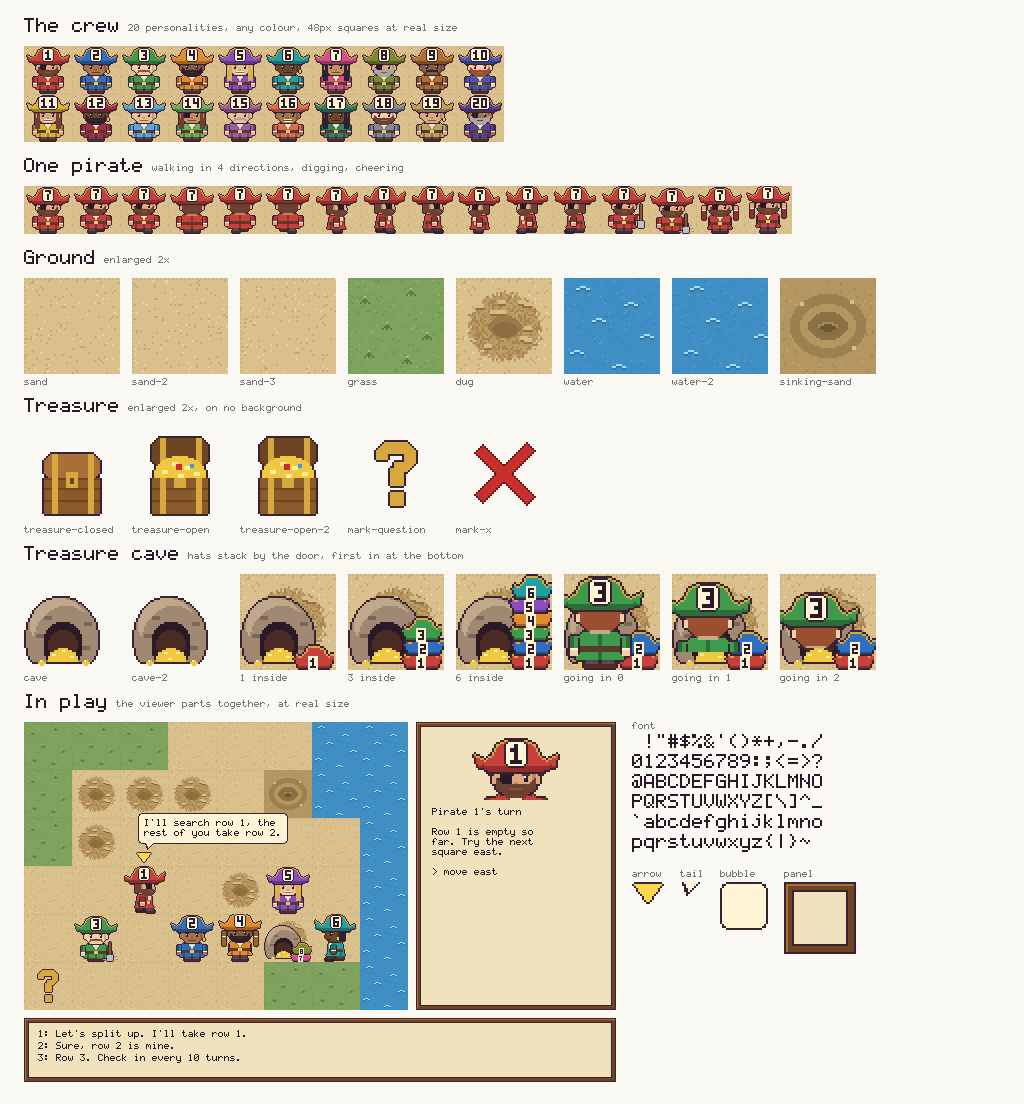
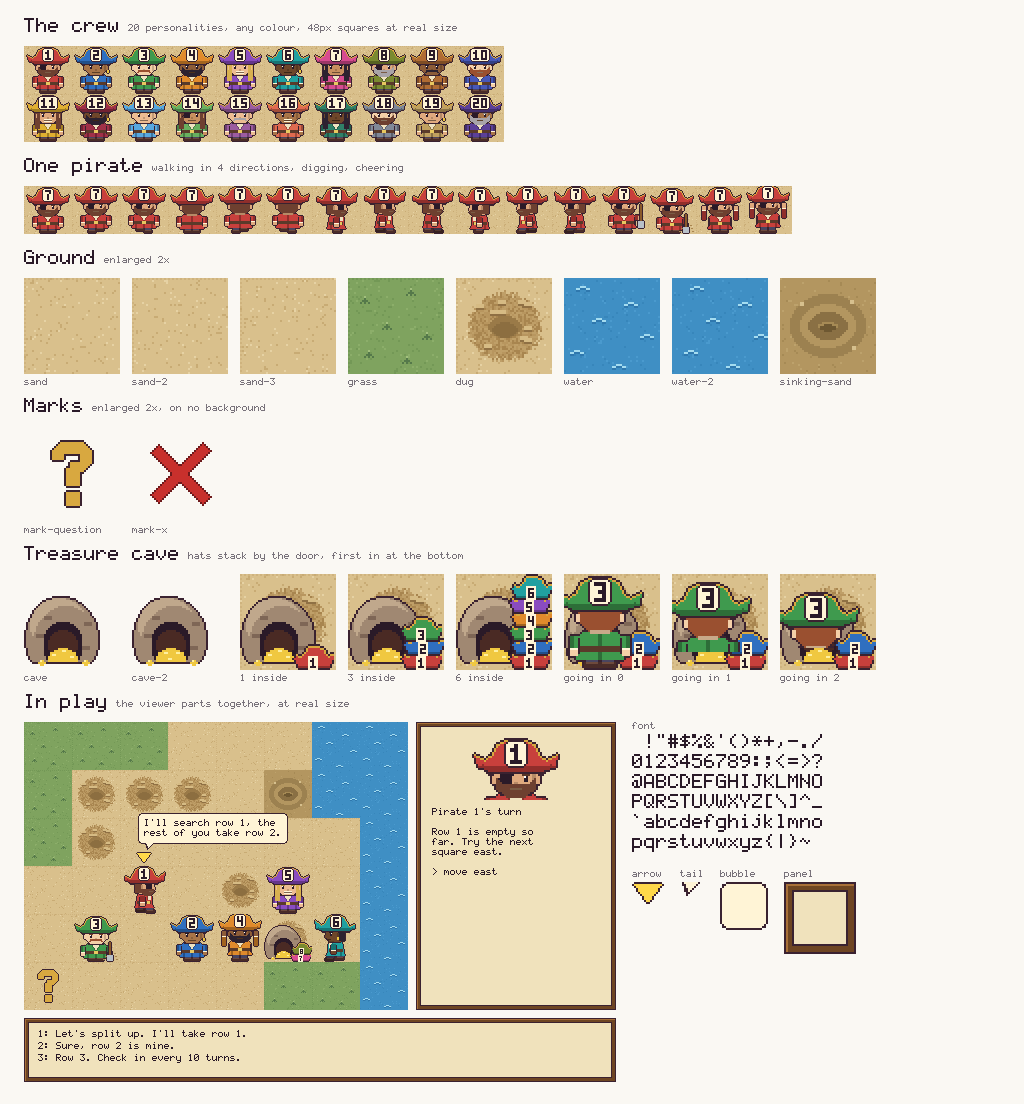
improve(assets): the treasure chests go, since the cave replaces them and nothing drew them
Al asked to keep only art that's used or likely to be. The closed and open
chests were never drawn by the viewer; the cave now stands for the treasure.
The marks stay, and the turn arrow stays for a whose-turn marker.

diff --git a/assets/treasure.py b/assets/treasure.py
@@ -1,60 +1,15 @@
 # Implements: assets/treasure-shown, assets/original-art
-"""The treasure and the marks on its square: 48x48 with a transparent background."""
+"""The marks on the treasure's square: 48x48 with a transparent background."""
 
 from PIL import Image, ImageDraw
 
-from assets.pixels import GOLD, SIZE, add_outline, rgba
+from assets.pixels import GOLD, SIZE, add_outline
 
-_WOOD, _WOOD_DARK, _WOOD_LIT = "#8a5a2b", "#6e4522", "#a87038"
-_COIN, _COIN_LIT = "#f0c840", "#fff0a0"
 _RED = "#c8302c"
 
 
 def _blank():
     return Image.new("RGBA", (SIZE, SIZE), (0, 0, 0, 0))
-
-
-def _chest_body(draw):
-    draw.rectangle([10, 26, 37, 43], fill=_WOOD)
-    for y in (31, 37):
-        draw.line([(10, y), (37, y)], fill=_WOOD_DARK)
-    for x in (14, 32):
-        draw.rectangle([x, 26, x + 2, 43], fill=GOLD)
-
-
-def closed():
-    image = _blank()
-    draw = ImageDraw.Draw(image)
-    _chest_body(draw)
-    draw.rounded_rectangle([10, 14, 37, 26], radius=5, fill=_WOOD_LIT)
-    draw.line([(10, 26), (37, 26)], fill=_WOOD_DARK)
-    for x in (14, 32):
-        draw.rectangle([x, 14, x + 2, 26], fill=GOLD)
-    draw.rectangle([21, 23, 26, 30], fill=GOLD)
-    draw.rectangle([23, 26, 24, 28], fill=_WOOD_DARK)
-    add_outline(image)
-    return image
-
-
-def opened(sparkle=False):
-    image = _blank()
-    draw = ImageDraw.Draw(image)
-    draw.rounded_rectangle([10, 6, 37, 20], radius=5, fill=_WOOD_DARK)
-    for x in (14, 32):
-        draw.rectangle([x, 6, x + 2, 20], fill=GOLD)
-    draw.ellipse([11, 15, 36, 32], fill=_COIN)
-    for x, y in [(15, 22), (20, 18), (26, 20), (31, 23), (23, 24), (17, 26), (29, 27)]:
-        draw.rectangle([x, y, x + 2, y + 1], fill=_COIN_LIT)
-    draw.rectangle([22, 19, 24, 21], fill=_RED)
-    draw.rectangle([29, 19, 30, 20], fill="#3f9ad0")
-    _chest_body(draw)
-    draw.rectangle([21, 26, 26, 30], fill=GOLD)
-    add_outline(image)
-    stars = [(7, 8), (40, 13), (24, 3)] if sparkle else [(41, 6), (6, 16), (33, 2)]
-    for x, y in stars:
-        for dx, dy in ((0, 0), (1, 0), (-1, 0), (0, 1), (0, -1)):
-            image.putpixel((x + dx, y + dy), rgba("#fffbe0"))
-    return image
 
 
 def mark_question():
@@ -81,9 +36,6 @@ def mark_x():
 
 
 ITEMS = {
-    "treasure-closed": closed,
-    "treasure-open": opened,
-    "treasure-open-2": lambda: opened(True),
     "mark-question": mark_question,
     "mark-x": mark_x,
 }

diff --git a/tests/test_assets.py b/tests/test_assets.py
@@ -120,10 +120,10 @@ def test_ground_tiles_are_opaque_and_look_different():
     assert len({tile.tobytes() for tile in drawn.values()}) == len(drawn)
 
 
-def test_treasure_shown_chests_and_marks_exist_and_differ():
-    needed = {"treasure-closed", "treasure-open", "mark-question", "mark-x"}
+def test_treasure_shown_marks_exist_and_differ():
+    needed = {"mark-question", "mark-x"}
     assert needed <= set(ITEMS)
-    assert len({ITEMS[name]().tobytes() for name in needed}) == 4
+    assert len({ITEMS[name]().tobytes() for name in needed}) == 2
     assert all(ITEMS[name]().getextrema()[3][0] == 0 for name in needed)
 
 

diff --git a/assets/generate.py b/assets/generate.py
@@ -188,7 +188,7 @@ def contact_sheet():
     sheet.alpha_composite(_on_sand(_poses(), 16), (24, 186))
     _heading(sheet, 250, "Ground", "enlarged 2x")
     _labelled_row(sheet, 278, [(name, make()) for name, make in TILES.items()])
-    _heading(sheet, 398, "Treasure", "enlarged 2x, on no background")
+    _heading(sheet, 398, "Marks", "enlarged 2x, on no background")
     _labelled_row(sheet, 426, [(name, make()) for name, make in ITEMS.items()])
     _heading(
         sheet, 546, "Treasure cave", "hats stack by the door, first in at the bottom"

diff --git a/product/spec/assets.md b/product/spec/assets.md
@@ -10,7 +10,7 @@
 - **four-directions:** Pirates face four directions, each with a standing frame and two walking frames.
 - **actions-shown:** Pirates also have digging and cheering poses.
 - **ground-tiles:** The ground tiles are sand and grass, dug sand that still looks walkable, water that doesn't, and sinking sand.
-- **treasure-shown:** The treasure has a closed chest, an open chest, and the question mark and X that mark its square.
+- **treasure-shown:** The treasure's square has a question mark and an X to mark it for the reader.
 - **treasure-cave:** Once the treasure is dug up its square is a cave the pirates go into, with gold glinting in its mouth over two frames, and room beside the door for a stack of hats.
 - **hat-stack:** Each pirate that goes into the cave leaves a small copy of its hat by the door, in its colour with its label, stacked in the order they went in with the first at the bottom; a crew of six fits on the square with every label showing, and a bigger crew squeezes up to stay on it.
 - **going-in:** A pirate going into the cave is drawn from behind, sinking into its mouth over four steps, so a single frame still reads as going in.
@@ -33,7 +33,7 @@
 | `four-directions` | `assets/pirates.py` | `test_four_directions_each_walk_with_three_frames` |
 | `actions-shown` | `assets/pirates.py` | `test_actions_shown_digging_and_cheering_differ_from_standing` |
 | `ground-tiles` | `assets/tiles.py` | `test_ground_tiles_are_opaque_and_look_different` |
-| `treasure-shown` | `assets/treasure.py` | `test_treasure_shown_chests_and_marks_exist_and_differ` |
+| `treasure-shown` | `assets/treasure.py` | `test_treasure_shown_marks_exist_and_differ` |
 | `treasure-cave` | `assets/cave.py`, `assets/generate.py` | `test_treasure_cave_is_a_square_that_glints_and_leaves_room_for_the_hats` |
 | `hat-stack` | `assets/cave.py` | `test_hat_stack_is_empty_with_nobody_inside`, `test_hat_stack_puts_the_first_in_at_the_bottom`, `test_hat_stack_shows_every_label_for_a_crew_of_six`, `test_hat_stack_keeps_a_big_crew_on_the_square`, `test_hat_stack_hats_are_small_and_carry_the_label` |
 | `going-in` | `assets/cave.py` | `test_going_in_sinks_into_the_mouth_step_by_step` |

diff --git a/assets/README.md b/assets/README.md
@@ -21,8 +21,6 @@ A square is 48x48, so a 10x10 board is 480px at real size. Scale by whole number
 | `tiles/dug.png` | 48x48 | A dug square: ruffled, and still walkable. |
 | `tiles/water.png`, `water-2.png` | 48x48 | Water, which can't be crossed. Alternate the two to animate it. |
 | `tiles/sinking-sand.png` | 48x48 | Sinking sand, for hidden terrain once it's found. |
-| `treasure/treasure-closed.png` | 48x48 | The chest, shut. Transparent background. |
-| `treasure/treasure-open.png`, `treasure-open-2.png` | 48x48 | The chest, open. Alternate the two to make it sparkle. |
 | `treasure/mark-question.png`, `mark-x.png` | 48x48 | The marks on the treasure square: `?` from the start, `X` once it's dug up. |
 | `treasure/cave.png`, `cave-2.png` | 48x48 | The treasure square once it's dug up: a cave the pirates go into. Alternate the two to make the gold glint. Draw it over `tiles/dug.png`. |
 | `ui/font.png` | 96x60 | Printable ASCII from space, 16 across, in 6x10 cells. |
